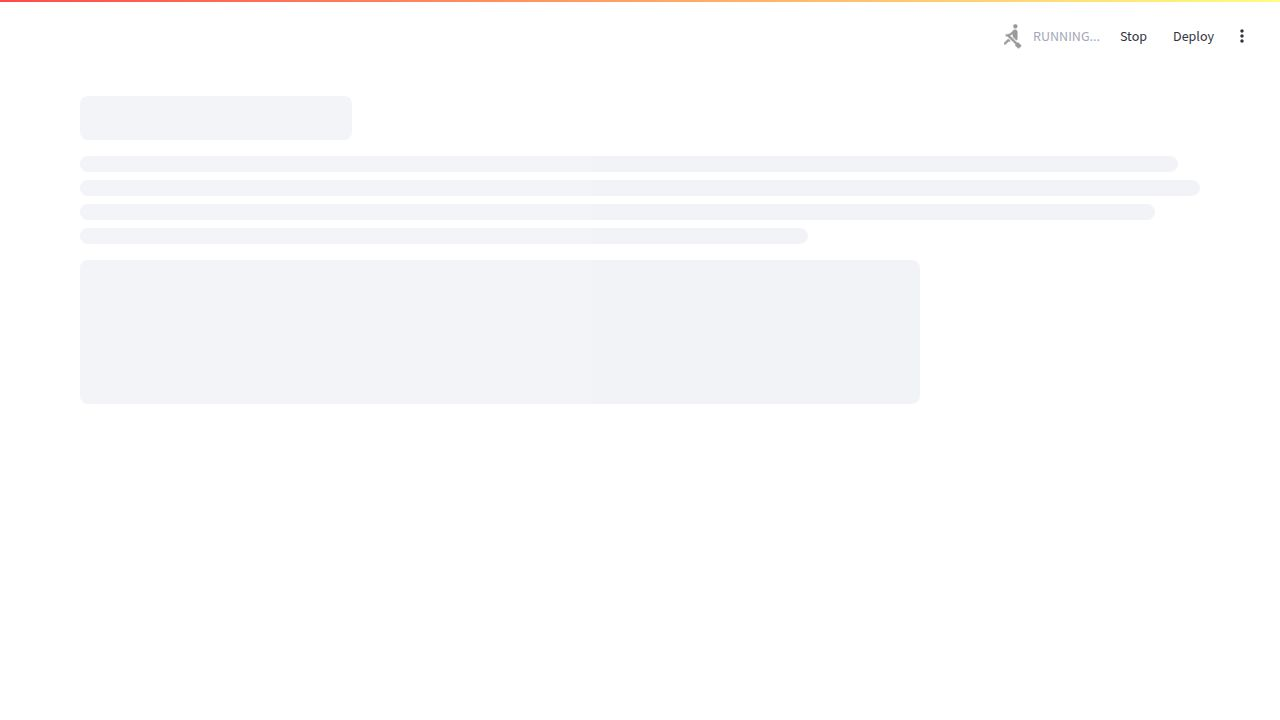
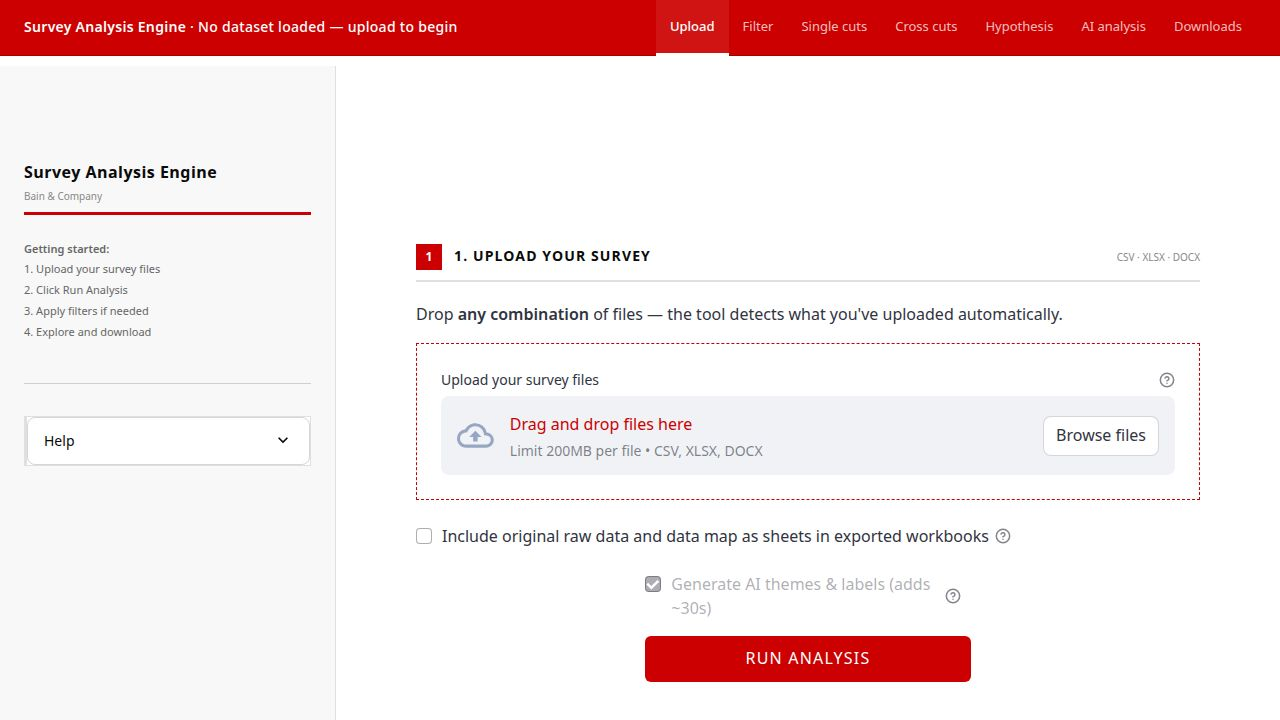
Improve data processing and validation for survey analysis
Update question classification logic to correctly identify and reclassify question types, implement an adapter for file uploads in verification scripts, and enhance error handling for cross-cut analysis.

Replit-Commit-Author: Agent
Replit-Commit-Session-Id: 1f7e2626-b96d-4407-a3c6-c3ff9161cc2b
Replit-Commit-Checkpoint-Type: full_checkpoint
Replit-Commit-Event-Id: 35d77e0e-f0d5-413a-8db1-10186ec634b8
Replit-Commit-Screenshot-Url: https://storage.googleapis.com/screenshot-production-us-central1/bfe30bdd-353b-4a34-a48b-6024fd0147dc/1f7e2626-b96d-4407-a3c6-c3ff9161cc2b/xKQ9yCn
Replit-Helium-Checkpoint-Created: true

diff --git a/artifacts/survey-insight-engine/verify_5s5t.py b/artifacts/survey-insight-engine/verify_5s5t.py
@@ -1,0 +1,78 @@
+import sys
+import pandas as pd
+from src.question_classifier import (
+    classify_questions,
+    reconcile_multiselect_value_subtypes,
+    GRID_BINARY_SELECT,
+)
+from src.excel_exporter import (
+    _grid_spec_subtype, _decode_option_value, _is_selected_value, _live_value_present,
+)
+
+DATA = "../../attached_assets/winvslag2024.xlsx"
+
+# Production loader. If load_survey_inputs needs different args, adjust here and paste the error.
+# load_survey_inputs expects a list of UploadedFile-like objects (name/read/seek),
+# not a path string, so wrap the workbook bytes in a minimal adapter.
+import io as _stdlib_io
+import os as _os
+from src.io import load_survey_inputs
+
+
+class _PathUpload:
+    def __init__(self, path):
+        self.name = _os.path.basename(path)
+        with open(path, "rb") as fh:
+            self._buf = _stdlib_io.BytesIO(fh.read())
+
+    def read(self):
+        self._buf.seek(0)
+        return self._buf.read()
+
+    def seek(self, offset):
+        return self._buf.seek(offset)
+
+
+data_map, df, _report = load_survey_inputs([_PathUpload(DATA)])
+df.columns = [str(c) for c in df.columns]
+
+schema = classify_questions(data_map, list(df.columns), total_respondents=len(df))
+pre = {q.canonical_id: q.question_type.value for q in schema.questions}
+schema = reconcile_multiselect_value_subtypes(schema, df)
+by = {q.canonical_id: q for q in schema.questions}
+
+# (1) 5S: exactly the 10 expected reclassifications
+changed = [(q, by[q].question_type.value) for q in by if pre[q] != by[q].question_type.value]
+rank = {q for q, t in changed if t == "RANK_ORDER"}
+alloc = {q for q, t in changed if t == "NUMERIC_ALLOCATION"}
+assert rank == {"Q21","Q39","Q82","Q86","Q92","Q100","Q101"}, f"RANK mismatch: {sorted(rank)}"
+assert alloc == {"Q66","Q71","Q94"}, f"ALLOC mismatch: {sorted(alloc)}"
+print("PASS 5S: rank", sorted(rank), "alloc", sorted(alloc))
+
+# (2) Issue 1: the 9 reported grids keep a real GRID_* role (no warning-text poisoning)
+broken = ["Q27","Q28","Q30","Q62","Q63","Q64","Q91","Q97","Q103"]
+bad = [q for q in broken
+       if str(by[q].possible_role) not in ("GRID_RATED","GRID_CATEGORICAL","GRID_BINARY_SELECT")]
+assert not bad, f"poisoned possible_role: {bad}"
+
+def render(spec, v):
+    if _grid_spec_subtype(spec) == GRID_BINARY_SELECT:
+        return "Selected" if _is_selected_value(v) else None
+    if getattr(spec, "label_to_numeric_value", None):
+        return None if not _live_value_present(v) else v
+    return _decode_option_value(v, spec.option_map)
+
+still_selected = []
+for q in broken:
+    for c in by[q].raw_columns:
+        if c in df.columns and "Selected" in set(df[c].map(lambda v: render(by[q], v)).dropna().unique()):
+            still_selected.append((q, c)); break
+assert not still_selected, f"still rendering 'Selected': {still_selected}"
+print("PASS issue1: 9 grids decode to labels, none render 'Selected'")
+
+# (3) Q97 must decode to its real scale, not a binary flag
+q97 = by["Q97"]
+dist = df[q97.raw_columns[0]].map(lambda v: render(q97, v)).value_counts(dropna=True).to_dict()
+assert "Selected" not in dist and any(isinstance(k, str) for k in dist), f"Q97 not decoded: {dist}"
+print("Q97 first-column distribution:", dist)
+print("ALL REAL-FILE CHECKS PASSED")

diff --git a/attached_assets/test_ui_wizard_outcome_laggard_1780499618201.py b/attached_assets/test_ui_wizard_outcome_laggard_1780499618201.py
@@ -1,0 +1,58 @@
+from __future__ import annotations
+
+from pathlib import Path
+import unittest
+
+
+APP_PATH = Path(__file__).resolve().parents[1] / "artifacts" / "survey-insight-engine" / "app.py"
+
+
+class TestOutcomeLaggardUi(unittest.TestCase):
+    @classmethod
+    def setUpClass(cls) -> None:
+        cls.app_text = APP_PATH.read_text(encoding="utf-8")
+
+    def test_laggard_cohort_ui_copy_is_present(self) -> None:
+        self.assertIn("Laggard cohort", self.app_text)
+        self.assertIn("Laggard option values", self.app_text)
+        self.assertIn("Laggard threshold", self.app_text)
+
+    def test_override_outcome_checkbox_and_dropdown_are_present(self) -> None:
+        self.assertIn("Override outcome question for laggards", self.app_text)
+        self.assertIn("laggard_outcome_variable_selector", self.app_text)
+
+    def test_grid_override_subquestion_dropdown_is_present(self) -> None:
+        self.assertIn("Laggard grid sub-question", self.app_text)
+        self.assertIn("laggard_outcome_sub_question_selector", self.app_text)
+
+    def test_outcome_segmented_download_button_is_present(self) -> None:
+        self.assertIn("Outcome Segmented Workbook (Winners vs Laggards)", self.app_text)
+        self.assertIn("export_winners_vs_laggards_workbook", self.app_text)
+
+    def test_protective_app_container_and_run_pipeline_import_position(self) -> None:
+        self.assertIn("with app.container():", self.app_text)
+        run_pipeline = self.app_text.index("def _run_pipeline(")
+        body = self.app_text[run_pipeline:self.app_text.index("status.update", run_pipeline)]
+        self.assertIn("app = _require_streamlit()", body)
+
+    def test_manual_cross_cut_routes_numeric_metric_pairs(self) -> None:
+        start = self.app_text.index("def _render_manual_cross_cut(")
+        end = self.app_text.index("# ---------------------------------------------------------------------------", start)
+        body = self.app_text[start:end]
+
+        self.assertIn("numeric_types = {QuestionType.DIRECT_NUMERIC, QuestionType.NUMERIC_ALLOCATION}", body)
+        self.assertIn("QuestionType.DEMOGRAPHIC_OR_SEGMENT", body)
+        self.assertIn("QuestionType.GRID_SINGLE_SELECT", body)
+        self.assertIn("analysis_type = AnalysisType.GROUP_COMPARISON", body)
+        self.assertIn("source_ids = (segment_id, metric_id)", body)
+        self.assertIn("source_question_ids=source_ids", body)
+        self.assertIn(
+            "GROUP_COMPARISON does not yet support NUMERIC_ALLOCATION metrics",
+            body,
+        )
+        self.assertIn("CROSS_TAB requires two categorical questions", body)
+        self.assertIn("EXPECTED_VS_REALIZED requires two direct numeric questions", body)
+
+
+if __name__ == "__main__":
+    unittest.main()

diff --git a/artifacts/survey-insight-engine/tests/test_ui_wizard_outcome_laggard.py b/artifacts/survey-insight-engine/tests/test_ui_wizard_outcome_laggard.py
@@ -35,6 +35,24 @@ class TestOutcomeLaggardUi(unittest.TestCase):
         body = self.app_text[run_pipeline:self.app_text.index("status.update", run_pipeline)]
         self.assertIn("app = _require_streamlit()", body)
 
+    def test_manual_cross_cut_routes_numeric_metric_pairs(self) -> None:
+        start = self.app_text.index("def _render_manual_cross_cut(")
+        end = self.app_text.index("# ---------------------------------------------------------------------------", start)
+        body = self.app_text[start:end]
+
+        self.assertIn("numeric_types = {QuestionType.DIRECT_NUMERIC, QuestionType.NUMERIC_ALLOCATION}", body)
+        self.assertIn("QuestionType.DEMOGRAPHIC_OR_SEGMENT", body)
+        self.assertIn("QuestionType.GRID_SINGLE_SELECT", body)
+        self.assertIn("analysis_type = AnalysisType.GROUP_COMPARISON", body)
+        self.assertIn("source_ids = (segment_id, metric_id)", body)
+        self.assertIn("source_question_ids=source_ids", body)
+        self.assertIn(
+            "GROUP_COMPARISON does not yet support NUMERIC_ALLOCATION metrics",
+            body,
+        )
+        self.assertIn("CROSS_TAB requires two categorical questions", body)
+        self.assertIn("EXPECTED_VS_REALIZED requires two direct numeric questions", body)
+
 
 if __name__ == "__main__":
     unittest.main()

diff --git a/.agents/memory/realfile-gate-loader-signature.md b/.agents/memory/realfile-gate-loader-signature.md
@@ -1,0 +1,14 @@
+---
+name: Real-file gate loader signature
+description: survey-insight-engine verify scripts must wrap the workbook path, not pass it as a string, to load_survey_inputs.
+---
+
+# Real-file gate loader signature
+
+Codex deploy-runbook verify scripts (e.g. `verify_5s5t.py`) call `load_survey_inputs(DATA)` with `DATA` as a path string. That always fails with `AttributeError: 'str' object has no attribute 'name'`.
+
+**Rule:** `load_survey_inputs` takes a *list* of Streamlit-`UploadedFile`-like objects, each exposing `name: str`, `read() -> bytes`, `seek(offset)`. Wrap the path in a tiny adapter and pass a list: `load_survey_inputs([_PathUpload(DATA)])`.
+
+**Why:** the runbooks keep handing a bare path; the production loader detects scenario from `file.name`, so a string blows up immediately. The runbook itself authorizes "adjust the loader call here and paste the error" — so fixing the *verify harness* (not any installed source file) is in-bounds.
+
+**How to apply:** when a 5x deploy runbook includes a real-file gate, expect to add the `_PathUpload` wrapper (name from `os.path.basename`, BytesIO buffer, read() seeks to 0). Place verify_*.py in the artifact dir so `../../attached_assets/winvslag2024.xlsx` resolves.

diff --git a/.agents/memory/MEMORY.md b/.agents/memory/MEMORY.md
@@ -2,4 +2,5 @@
 - [Codex test doubled APP_PATH](codex-test-doubled-app-path.md) — Codex test files sometimes set APP_PATH with a redundant `artifacts/survey-insight-engine` segment → FileNotFoundError; correct form is `parents[1] / "app.py"`. Check ALL new test files, not just the authorized sed glob.
 - [Adapter sheet lookup & wizard gating](wizard-threshold-must-match-parse-floor.md) — survey-insight-engine: real wizard-fallback cause was hardcoded "Sheet1" data-map lookup (fix: _find_datamap_sheet by keyword); the 0.3 vs 0.5 threshold was a red herring since adapter scores never land in 0.3–0.5.
 - [Grid single-select numeric decoding](grid-single-select-numeric-decoding.md) — survey-insight-engine: GRID_SINGLE_SELECT (values_range+sub_columns+options) must skip option-label mapping; numeric coercion runs BEFORE grid text-detection so mixed numeric+text cols silently drop text to NaN.
+- [Real-file gate loader signature](realfile-gate-loader-signature.md) — survey-insight-engine: deploy-runbook verify scripts must wrap the workbook path in an UploadedFile-like adapter (name/read/seek) and pass a list; a bare path string raises AttributeError.
 - [Excel named-range collisions](excel-named-range-collisions.md) — survey-insight-engine exporter: header-derived names need rstrip('_') to avoid double-underscore #NAME?; latent gap = rstrip+truncate can collapse 2 headers → silent overwrite (wrong binding, no #NAME?), validator won't catch.